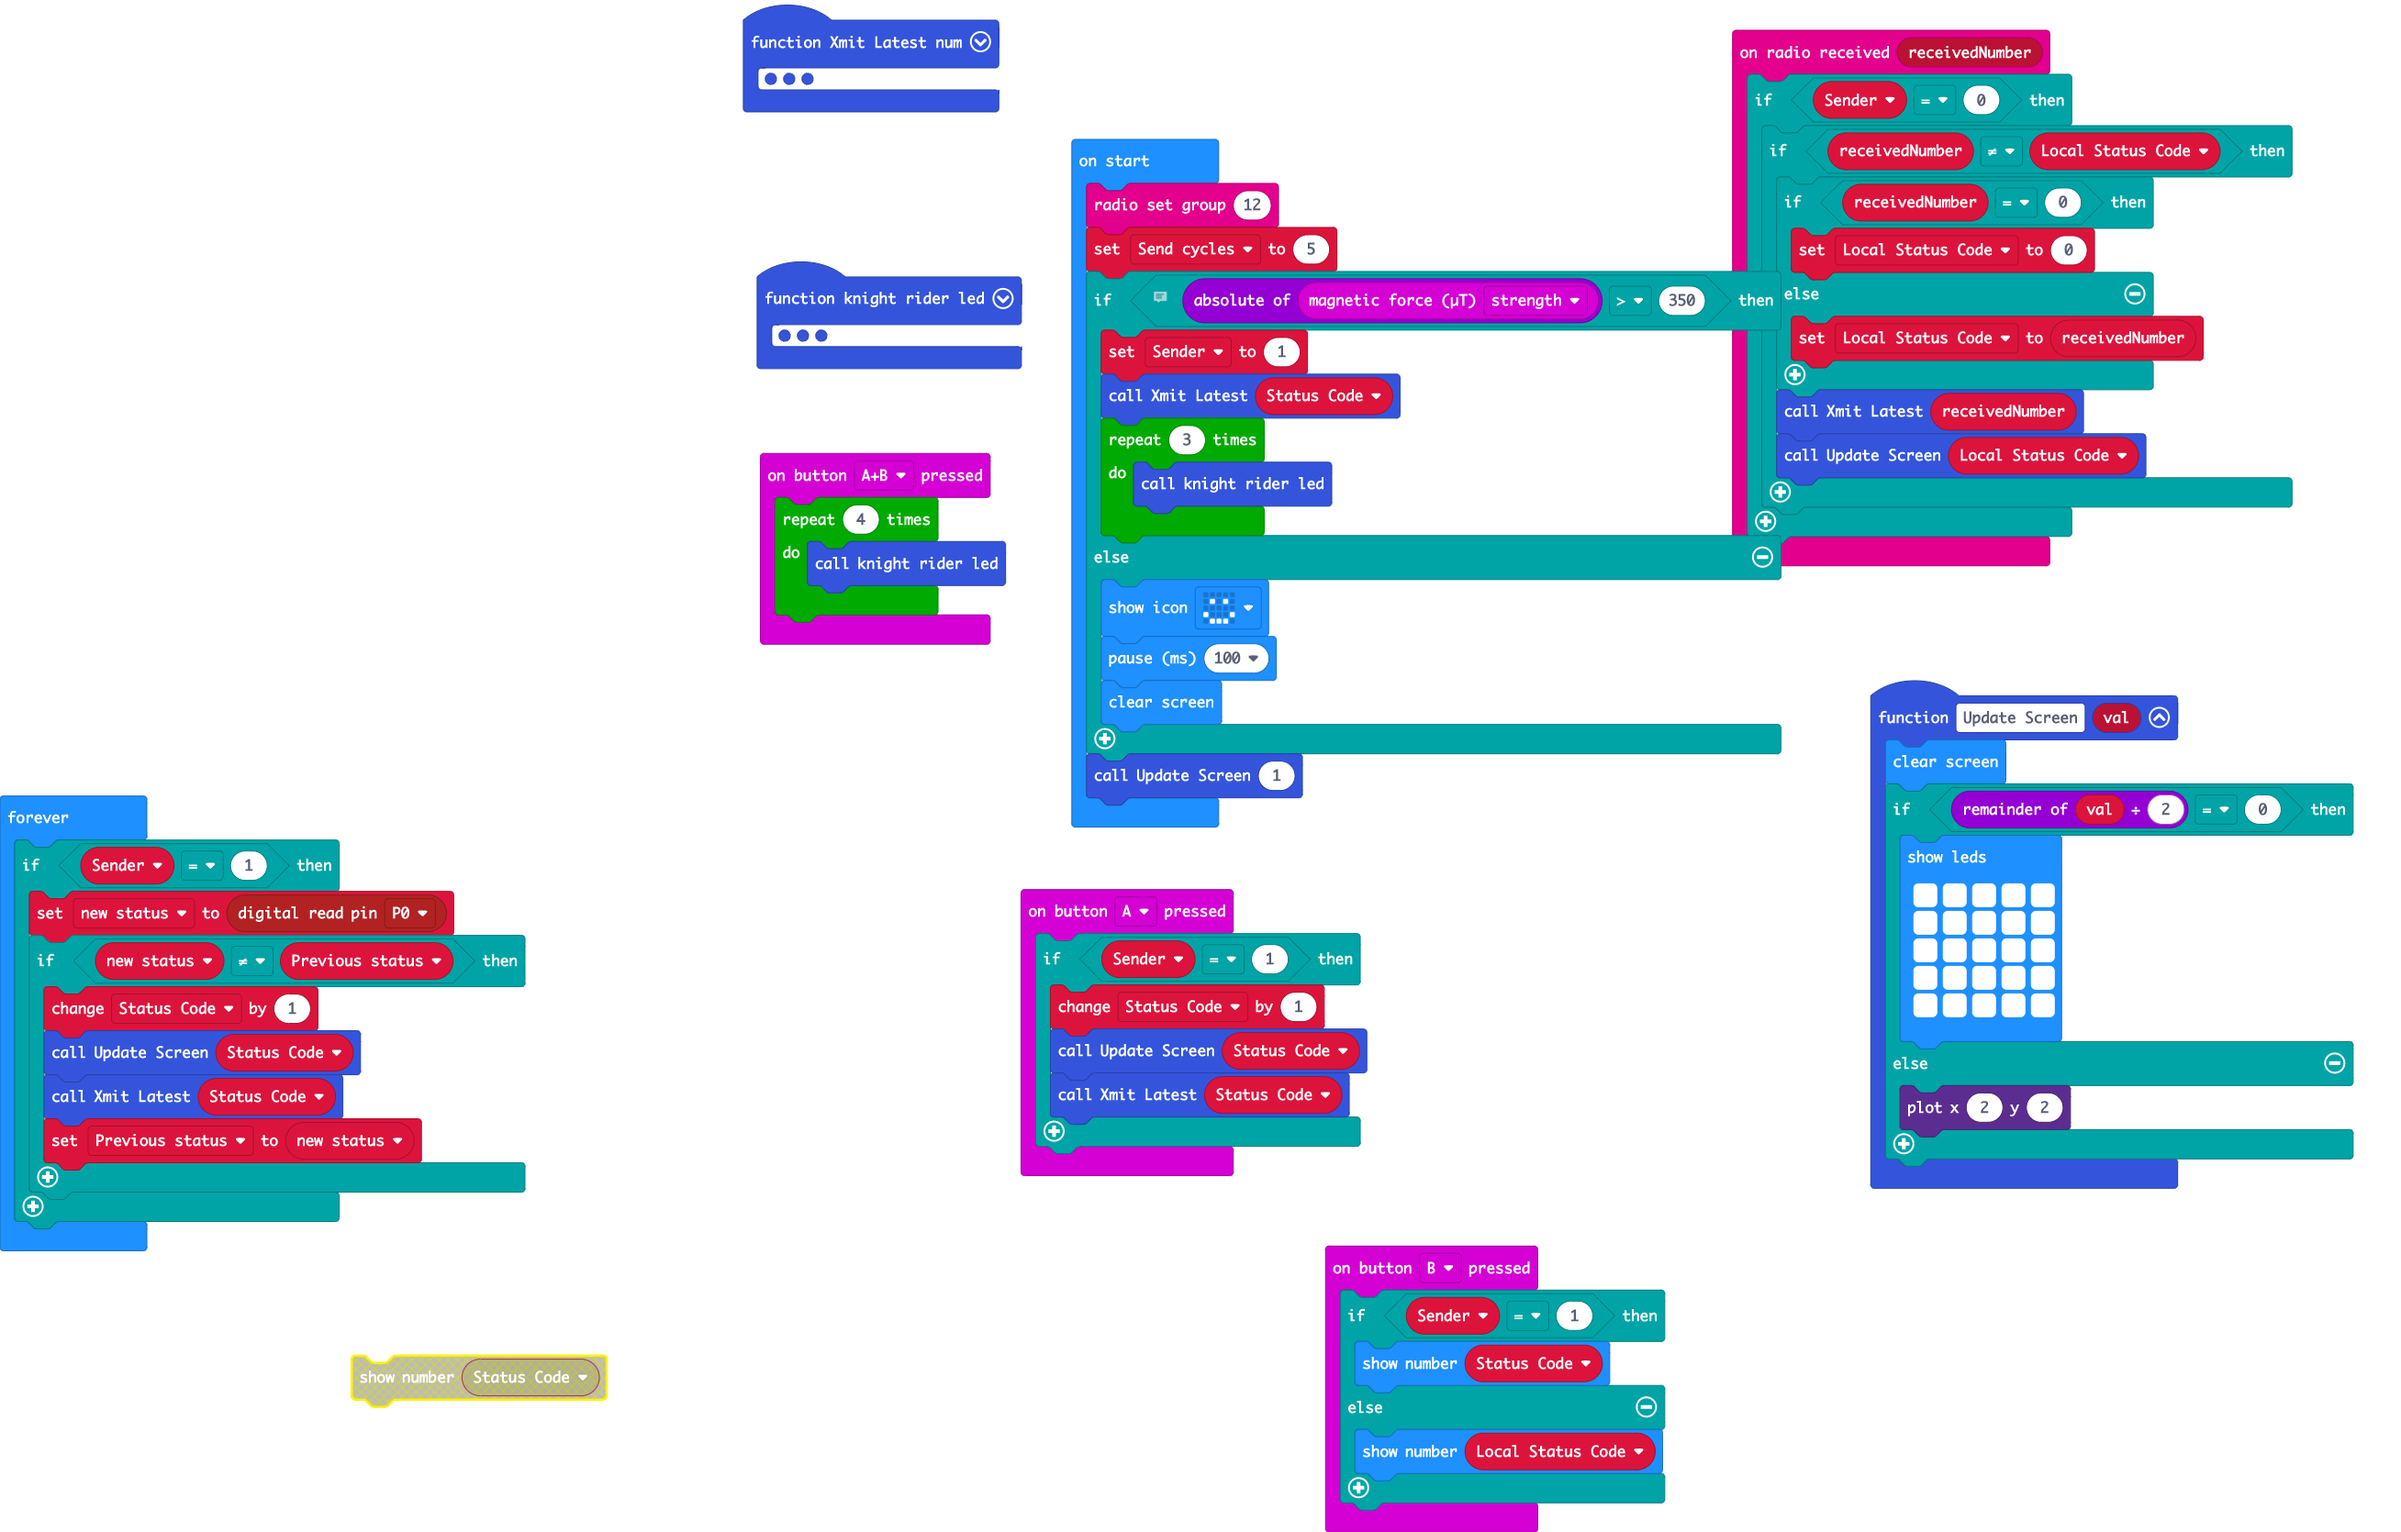
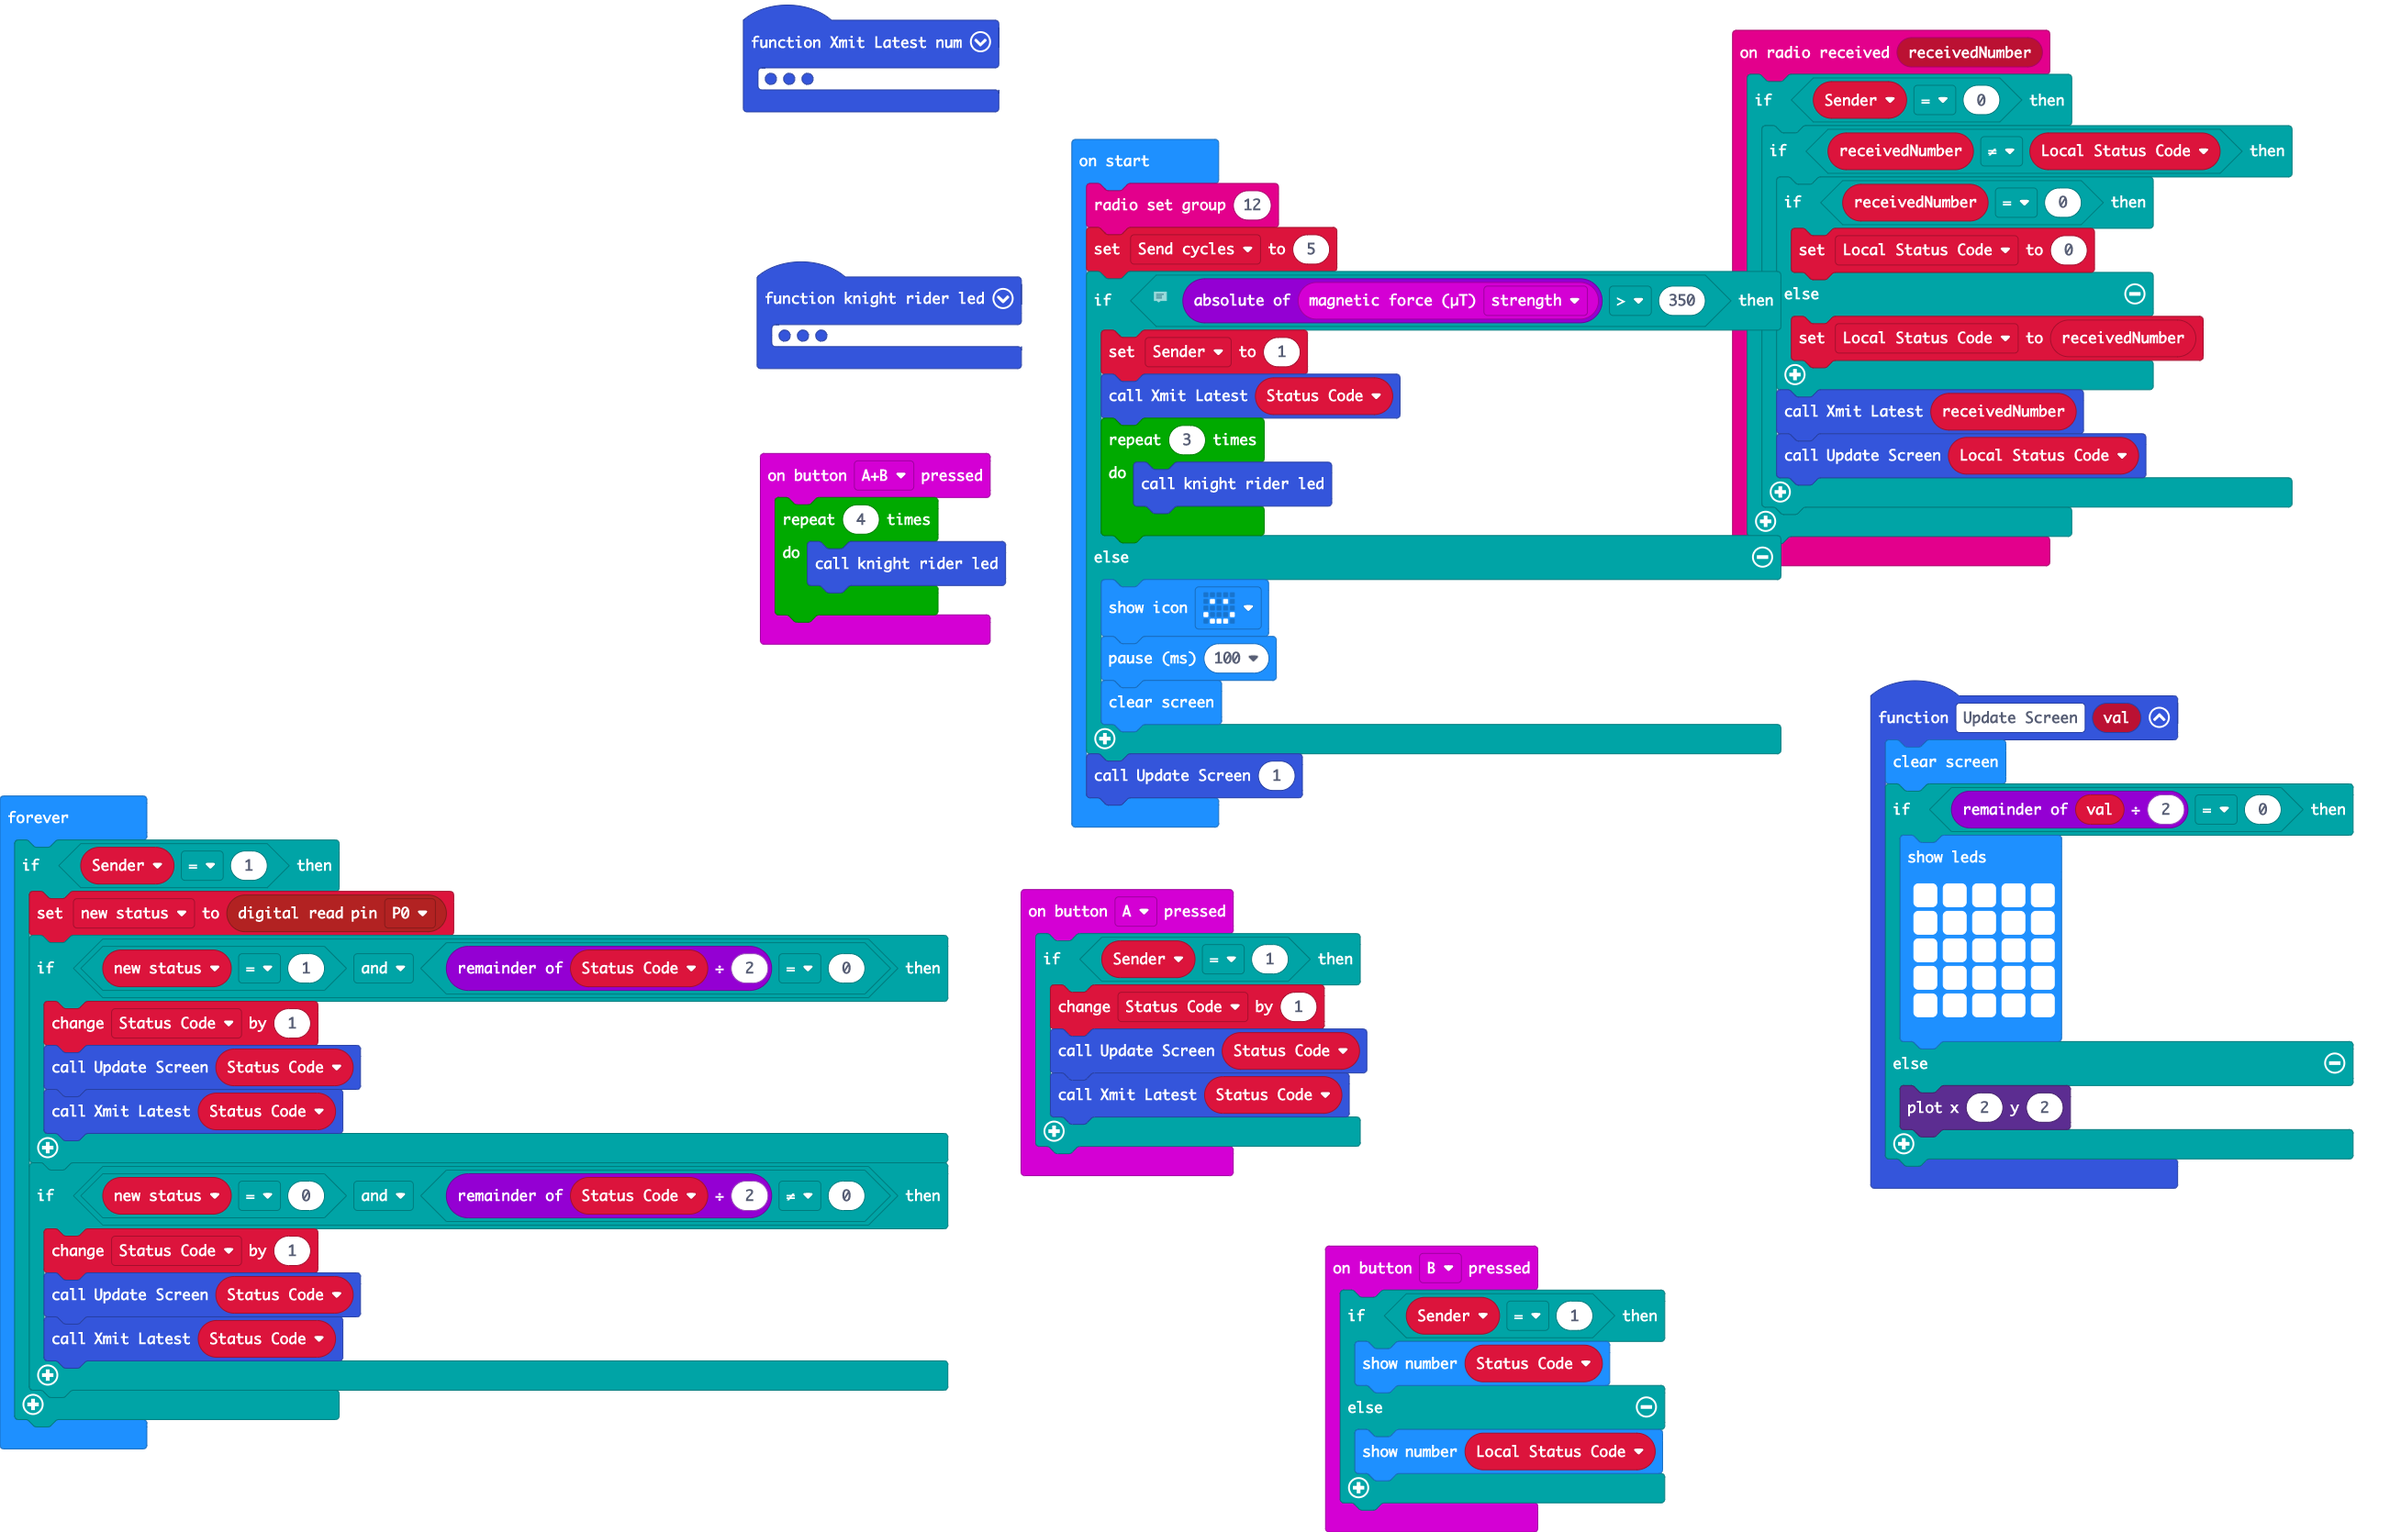
Sending logic is more foolproof now

Changed region(s): [[0.0, 0.5916, 0.4025, 0.9653]]

diff --git a/main.ts b/main.ts
@@ -57,7 +57,6 @@ input.onButtonPressed(Button.B, function () {
         basic.showNumber(Local_Status_Code)
     }
 })
-let Previous_status = 0
 let new_status = 0
 let Local_Status_Code = 0
 let Status_Code = 0
@@ -81,11 +80,15 @@ Update_Screen(1)
 basic.forever(function () {
     if (Sender == 1) {
         new_status = pins.digitalReadPin(DigitalPin.P0)
-        if (new_status != Previous_status) {
+        if (new_status == 1 && Status_Code % 2 == 0) {
             Status_Code += 1
             Update_Screen(Status_Code)
             Xmit_Latest(Status_Code)
-            Previous_status = new_status
+        }
+        if (new_status == 0 && Status_Code % 2 != 0) {
+            Status_Code += 1
+            Update_Screen(Status_Code)
+            Xmit_Latest(Status_Code)
         }
     }
 })
